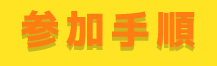
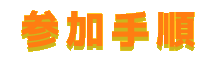
cssの微修正

diff --git a/sp/index.html b/sp/index.html
@@ -22,9 +22,7 @@
         <meta property="og:site_name" content="逆・敬老の日" />
         <meta property="og:description" content="“おじいちゃん、おばあちゃん”から“若者”へ、応援という形で感謝を伝える『逆・敬老の日』を、9/18（月）の敬老の日に実施したいと思います。" />
 
-        <meta property="fb:app_id" content="App-ID 1495361677176202" />
-        <meta property="fb:admins" content="adminID 1495361677176202" />
-
+        <meta property="fb:app_id" content="1495361677176202" />
         <meta name="twitter:card" content="photo" />
 
     </head>
@@ -165,7 +163,7 @@
             </div>
             <div id="howToJoin">
                 <div>
-                    <img src="images/how_to_join_title.png">
+                    <img id="join_tejun" src="../images/how_to_join_title.png">
                 </div>
                 <div class="contents relative">
                     <img id="howToJoinCover" src="../images/how_to_join_main_sp.png" class="absolute">
@@ -217,7 +215,7 @@
         </div>
             <div id="snsShare" class="relative">
                 <p id="snsShareMessage" class="">
-                     とりあえずシェアする
+                     気になったらついシェアをしてしまう
                 </p>
                 <div id="buttons">
                     <button id="twitterButton">

diff --git a/css/sp.css b/css/sp.css
@@ -152,6 +152,8 @@ footer {
     width: 80%;
     margin: auto;
     font-size: 19px;
+    margin-bottom: 0px;
+    padding-bottom: 0px;
 }
 #snsShare #buttons {
     width: 100%;
@@ -198,6 +200,7 @@ footer {
     width: 300px;
     padding: 0px;
     margin: 0px;
+    margin: auto;
 }
 
 #howToJoin #c_01 {
@@ -229,7 +232,7 @@ footer {
 }
 
 #mainContents #howToJoin {
-    height: 587px;
+    height: 620px;
 }
 #granpa {
     text-align: left;
@@ -255,6 +258,11 @@ footer {
     width: 80%;
     margin-bottom: 20px;
 }
+
+#join_tejun {
+    width: 200px;
+}
+
 /** iphone6用 */
 @media screen and (max-width: 380px) {
     #boy img {

diff --git a/index.html b/index.html
@@ -23,7 +23,7 @@
     <meta property="og:site_name" content="逆・敬老の日" />
     <meta property="og:description" content="“おじいちゃん、おばあちゃん”から“若者”へ、応援という形で感謝を伝える『逆・敬老の日』を、9/18（月）の敬老の日に実施したいと思います。" />
 
-    <meta property="fb:app_id" content="App-ID 1495361677176202" />
+    <meta property="fb:app_id" content="1495361677176202" />
 
     <meta name="twitter:card" content="photo" />
 
